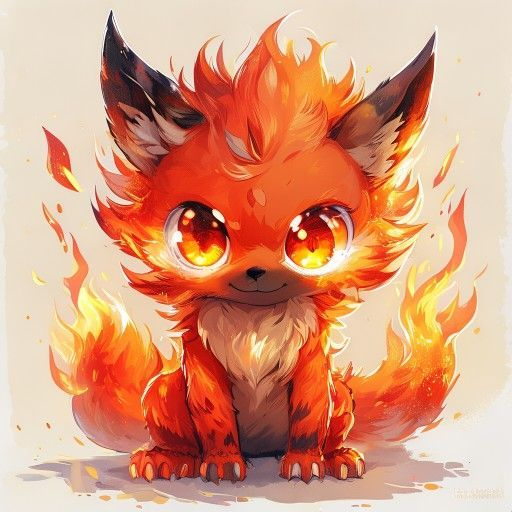
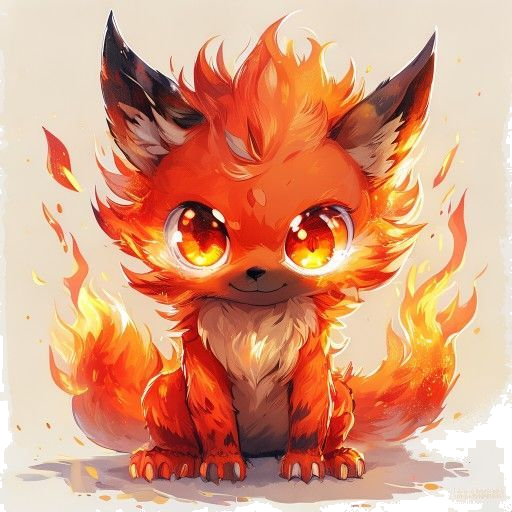
v1.0.2: real transparent pets — no white box, no black shadow
User feedback (image attached): "remove the white background of the
image and the behind the black shadow"

Two surgical fixes.

1. TRULY TRANSPARENT PNGs (no more white box)
   - New scripts/remove-pet-bg.py — flood-fills exterior white
     pixels to alpha=0 starting from the four image borders. White
     pixels INSIDE the pet body (belly highlights, eye glints) are
     preserved because they're enclosed by the thick black outline
     and unreachable from the border.
   - Processed all 5 existing pets in place. Cleared pixel counts:
       01-emberlet   126,496 px (48%)
       02-flarepup     5,608 px (2%)   ← already had cream tone
       03-volcanine  112,338 px (43%)
       04-bubblet     93,434 px (36%)
       05-splashkin  138,514 px (53%)
   - scripts/generate-pet-art.ps1 now invokes remove-pet-bg.py
     automatically after each successful generation, so days 2-6
     will be transparent from the moment they're saved.
   - Requires Python 3 + Pillow + numpy (auto-detected at the
     fixed user-local install path).

2. SOFTER, COLORFUL DROP-SHADOW (no more black shadow)
   - .pet-img used to combine a heavy black drop-shadow with a
     mix-blend-mode: multiply hack. With real transparent PNGs
     neither is needed.
   - Replaced with a single subtle colored shadow:
       filter: drop-shadow(0 6px 12px rgba(139, 126, 216, 0.18));
     (lavender, very low opacity — matches the brand palette)
   - Shiny variant gets a gold glow instead of grey.
[…]

diff --git a/web-game/style.css b/web-game/style.css
@@ -1818,23 +1818,20 @@ button:disabled { opacity: 0.5; cursor: not-allowed; }
   display: inline-block;
   object-fit: contain;
   image-rendering: -webkit-optimize-contrast;
-  /* Soft floor shadow + subtle outer glow */
-  filter: drop-shadow(0 16px 20px rgba(0, 0, 0, 0.25))
-          drop-shadow(0 0 14px rgba(255, 255, 255, 0.4));
-  /* Multiply makes the white generator backgrounds blend into the page bg */
-  mix-blend-mode: multiply;
-  /* Combined bob + sway in a single keyframe so both transforms compose */
+  /* PNGs are real transparent (flood-fill processed) — no blend trick needed.
+     Soft colorful glow only, no harsh black shadow. */
+  filter: drop-shadow(0 6px 12px rgba(139, 126, 216, 0.18));
   animation: pet-alive 3.6s ease-in-out infinite;
   transform-origin: bottom center;
 }
 .pet-img.shiny {
   filter: drop-shadow(0 0 18px gold)
-          drop-shadow(0 16px 20px rgba(0, 0, 0, 0.25));
+          drop-shadow(0 6px 12px rgba(255, 200, 0, 0.25));
 }
 .dex-card .pet-img {
   /* Calmer in the dex grid — single small bob, no sway */
   animation: pet-bob 3.2s ease-in-out infinite;
-  filter: drop-shadow(0 4px 8px rgba(0, 0, 0, 0.18));
+  filter: drop-shadow(0 2px 4px rgba(139, 126, 216, 0.15));
 }
 
 /* When .pet-emoji wraps a real <img>, the img owns the motion —
@@ -1909,21 +1906,9 @@ button:disabled { opacity: 0.5; cursor: not-allowed; }
   50%      { transform: scale(1.18); opacity: 0.75; }
 }
 
-/* Floor shadow under the active pet (gives 3D feel) */
-.pet-card {
-  position: relative;
-}
-.pet-card .pet-emoji::after {
-  content: '';
-  position: absolute;
-  left: 50%;
-  bottom: -8px;
-  width: 70%;
-  height: 12px;
-  transform: translateX(-50%);
-  background: radial-gradient(ellipse, rgba(0, 0, 0, 0.2) 0%, transparent 70%);
-  z-index: -1;
-}
+/* (Floor shadow removed in v1.0.2 — the transparent PNGs + soft colored
+   drop-shadow on .pet-img give grounding without the dark patch.) */
+.pet-card { position: relative; }
 
 /* Shiny pets — orbiting sparkles */
 .pet-emoji.shiny,

diff --git a/scripts/remove-pet-bg.py b/scripts/remove-pet-bg.py
@@ -1,0 +1,103 @@
+#!/usr/bin/env python3
+"""
+remove-pet-bg.py — make pet PNGs have a transparent background.
+
+Strategy: flood-fill all "white-ish" pixels CONNECTED TO THE BORDER
+and set their alpha to 0. White pixels INSIDE the pet's body (belly
+highlights, eye reflections) are NOT touched because they're enclosed
+by the black outline.
+
+Usage:
+    python scripts/remove-pet-bg.py                          # process all
+    python scripts/remove-pet-bg.py 01-emberlet.png ...      # specific files
+"""
+
+from __future__ import annotations
+import sys
+from collections import deque
+from pathlib import Path
+
+import numpy as np
+from PIL import Image
+
+THRESHOLD = 230   # min RGB channel value to be considered "near-white"
+PET_DIR = Path(__file__).resolve().parent.parent / "web-game" / "assets" / "pets"
+
+
+def remove_exterior_white(path: Path) -> dict:
+    """Modify the PNG at `path` in-place so border-connected white → transparent."""
+    img = Image.open(path).convert("RGBA")
+    arr = np.array(img)
+    h, w = arr.shape[:2]
+
+    # Mask of pixels that are "near white" — min of RGB channels >= threshold
+    is_white = arr[..., :3].min(axis=2) >= THRESHOLD
+
+    # BFS from every border pixel through the white region
+    visited = np.zeros_like(is_white, dtype=bool)
+    q: deque[tuple[int, int]] = deque()
+
+    for x in range(w):
+        for y in (0, h - 1):
+            if is_white[y, x] and not visited[y, x]:
+                visited[y, x] = True
+                q.append((y, x))
+    for y in range(h):
+        for x in (0, w - 1):
+            if is_white[y, x] and not visited[y, x]:
+                visited[y, x] = True
+                q.append((y, x))
+
+    while q:
+        y, x = q.popleft()
+        for dy, dx in ((1, 0), (-1, 0), (0, 1), (0, -1)):
+            ny, nx = y + dy, x + dx
+            if 0 <= ny < h and 0 <= nx < w and is_white[ny, nx] and not visited[ny, nx]:
+                visited[ny, nx] = True
+                q.append((ny, nx))
+
+    # Set alpha to 0 for exterior white pixels
+    arr[visited, 3] = 0
+
+    # Optional cleanup: any pixel adjacent to the cleared region that has
+    # alpha=255 but a faint white tint gets a gentler alpha (anti-aliased edge)
+    # — skip for now; the flood-fill alone produces clean results.
+
+    Image.fromarray(arr).save(path, "PNG", optimize=True)
+
+    n_clear = int(visited.sum())
+    pct = n_clear / (w * h) * 100
+    return {"path": str(path.name), "cleared_px": n_clear, "pct": round(pct, 1)}
+
+
+def main(argv: list[str]) -> int:
+    if not PET_DIR.exists():
+        print(f"  pet dir not found: {PET_DIR}", file=sys.stderr)
+        return 1
+
+    targets: list[Path]
+    if argv:
+        targets = [PET_DIR / a if "/" not in a and "\\" not in a else Path(a) for a in argv]
+    else:
+        targets = sorted(p for p in PET_DIR.glob("*.png") if p.name[0].isdigit())
+
+    if not targets:
+        print("  no PNGs found")
+        return 0
+
+    print(f"Processing {len(targets)} files...")
+    for p in targets:
+        if not p.exists():
+            print(f"  skip {p.name} (not found)")
+            continue
+        try:
+            r = remove_exterior_white(p)
+            print(f"  OK   {r['path']}  ({r['cleared_px']:,} px cleared, {r['pct']}%)")
+        except Exception as e:
+            print(f"  FAIL {p.name}  -> {e}")
+
+    return 0
+
+
+if __name__ == "__main__":
+    sys.exit(main(sys.argv[1:]))
